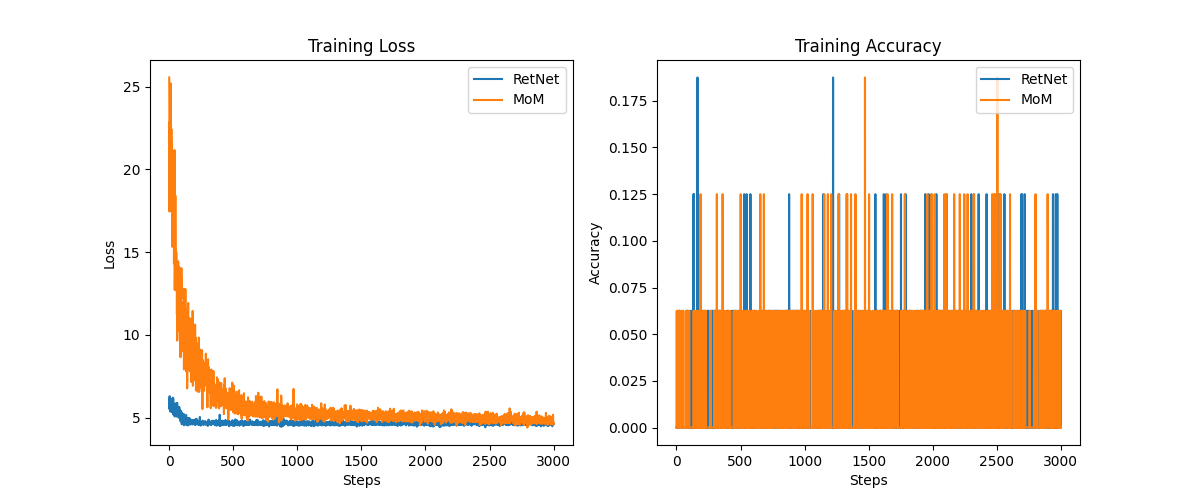
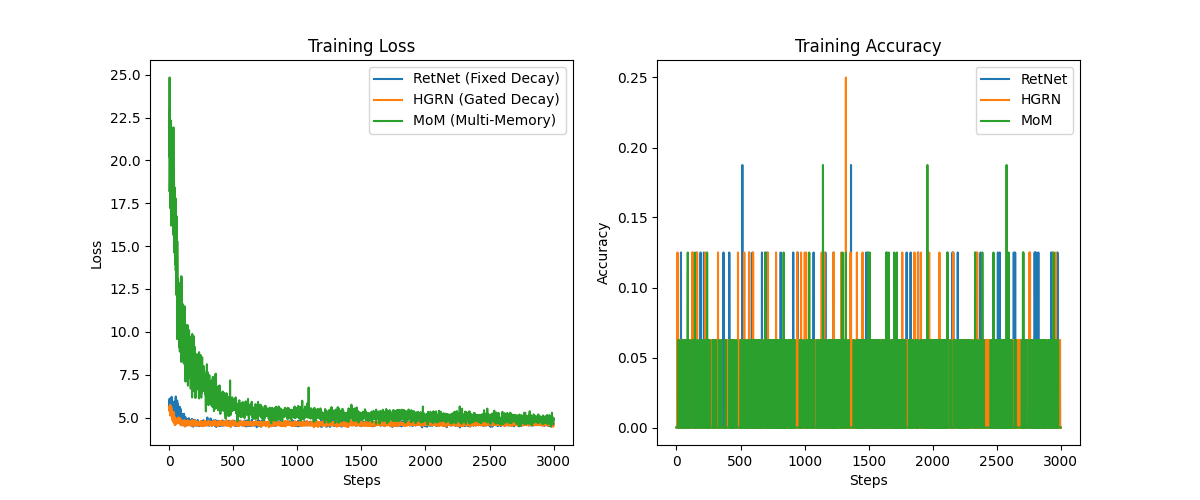
Ajout hgrn

diff --git a/src/module/hgrn.py b/src/module/hgrn.py
@@ -1,0 +1,70 @@
+import torch
+import torch.nn as nn
+import torch.nn.functional as F
+
+class HGRNLayer(nn.Module):
+    def __init__(self, dim):
+        super().__init__()
+        self.dim = dim
+
+        self.input_proj = nn.Linear(dim, dim, bias=False)
+        self.forget_proj = nn.Linear(dim, dim, bias=True)
+        self.input_gate_proj = nn.Linear(dim, dim, bias=True)
+        self.output_proj = nn.Linear(dim, dim, bias=False)
+
+    def forward(self, x, h_prev):
+        candidate = self.input_proj(x)
+        candidate = F.silu(candidate)
+
+        f = torch.sigmoid(self.forget_proj(x))
+        i = torch.sigmoid(self.input_gate_proj(x))
+
+        h_new = f * h_prev + i * candidate
+
+        output = self.output_proj(h_new)
+
+        return output, h_new
+
+class HGRN(nn.Module):
+    def __init__(self, config):
+        super().__init__()
+        self.config = config
+        self.dim = config["dim"]
+
+        self.embedding = nn.Embedding(config["vocab_size"], config["dim"])
+
+        self.layers = nn.ModuleList([
+            HGRNLayer(config["dim"]) for _ in range(config["num_layers"])
+        ])
+
+        self.norm = nn.LayerNorm(config["dim"])
+        self.head = nn.Linear(config["dim"], config["vocab_size"], bias=False)
+
+    def forward(self, input_ids):
+        x = self.embedding(input_ids)
+
+        batch_size, seq_len, _ = x.shape
+
+        h_states = [
+            torch.zeros(batch_size, self.dim, device=x.device)
+            for _ in range(self.config["num_layers"])
+        ]
+
+        outputs = []
+        x = x.transpose(0, 1)
+
+        for t in range(seq_len):
+            courant = x[t]
+            for i, layer in enumerate(self.layers):
+                courant, h_states[i] = layer(courant, h_states[i])
+            outputs.append(courant)
+
+        out = torch.stack(outputs, dim=0).transpose(0, 1)
+        out = self.norm(out)
+        logits = self.head(out)
+
+        return logits
+
+
+
+

diff --git a/src/experiment/retnet_vs_mom.py b/src/experiment/retnet_vs_mom.py
@@ -13,6 +13,7 @@ sys.path.append(root_dir)
 
 from src.module.mom import MoM
 from src.module.retnet import RetNetModule
+from src.module.hgrn import HGRN
 from src.experiment.generate_recall_data import generate_recall_data
 
 
@@ -126,19 +127,26 @@ def run():
     retnet = RetNetModule(CONFIG).to(device)
     losses_retnet, accuracy_retnet = train_model(retnet, "RetNet", CONFIG)
 
+    hgrn = HGRN(CONFIG).to(device)
+    losses_hgrn, accuracy_hgrn = train_model(hgrn, "HGRN", CONFIG)
+
     mom = MoMLLM(CONFIG).to(device)
     losses_mom, accuracy_mom = train_model(mom, "MoM", CONFIG)
 
     plt.figure(figsize=(12, 5))
+    
     plt.subplot(1, 2, 1)
-    plt.plot(losses_retnet, label='RetNet')
-    plt.plot(losses_mom, label='MoM')
+    plt.plot(losses_retnet, label='RetNet (Fixed Decay)')
+    plt.plot(losses_hgrn, label='HGRN (Gated Decay)') 
+    plt.plot(losses_mom, label='MoM (Multi-Memory)')
     plt.title('Training Loss')
     plt.xlabel('Steps')
     plt.ylabel('Loss')
     plt.legend()
+    
     plt.subplot(1, 2, 2)
     plt.plot(accuracy_retnet, label='RetNet')
+    plt.plot(accuracy_hgrn, label='HGRN')         
     plt.plot(accuracy_mom, label='MoM')
     plt.title('Training Accuracy')
     plt.xlabel('Steps')
@@ -146,8 +154,9 @@ def run():
     plt.legend()
     
     plt.savefig('MoM-paper-reimplementation/fig/retnet_vs_mom.png')
-    plt.show()
+
 
 if __name__ == "__main__":
     run()
+
             
